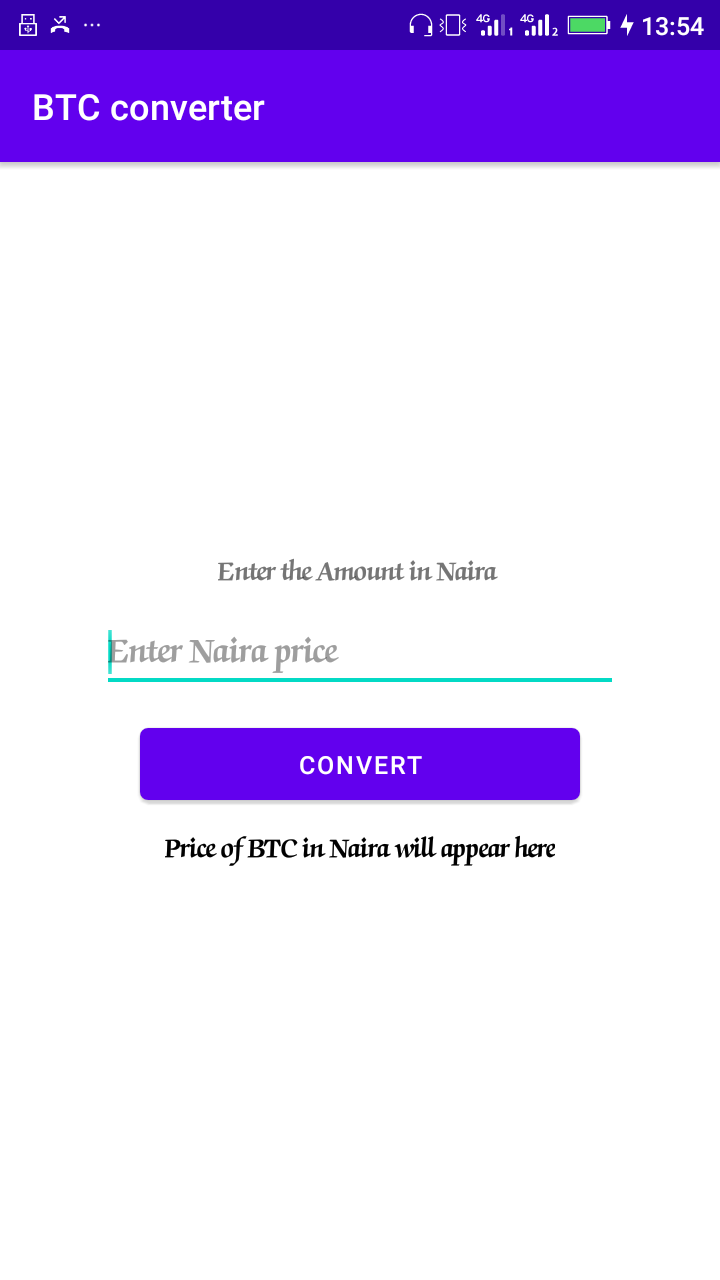
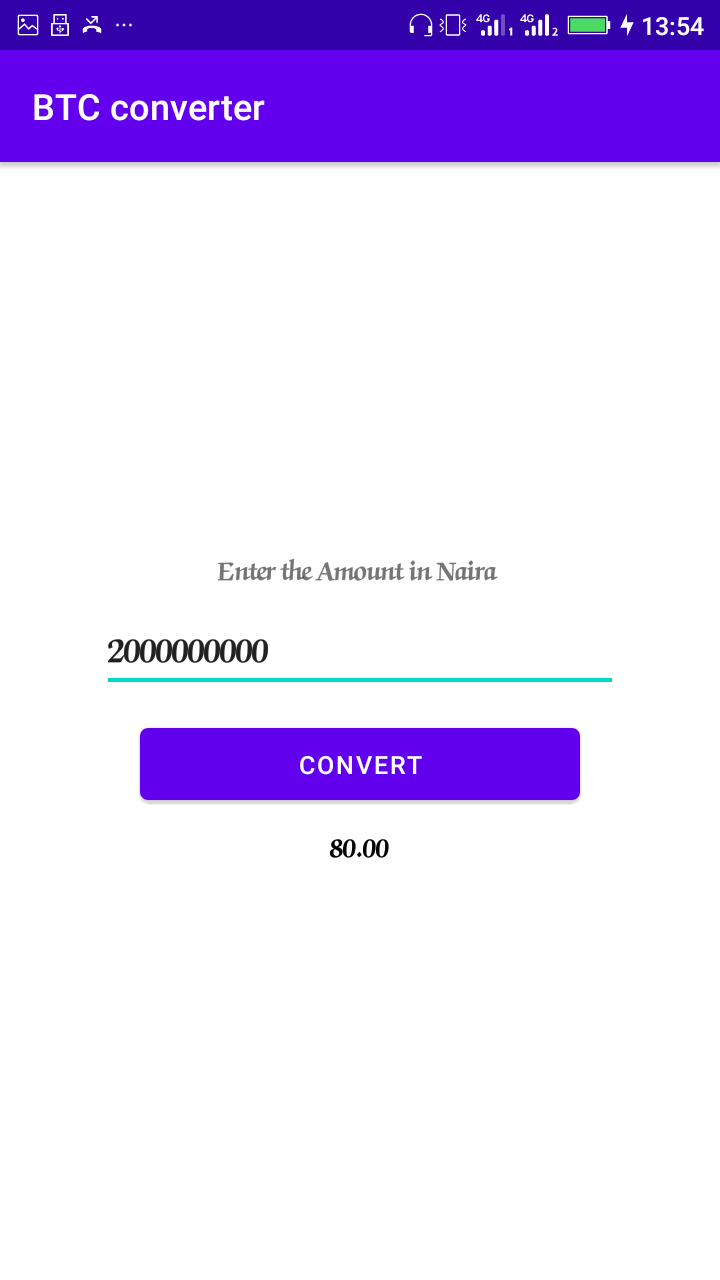
some changes

Changed region(s): [[0.2139, 0.6562, 0.7639, 0.6875], [0.1528, 0.5, 0.4583, 0.5312], [0.0306, 0.0, 0.1528, 0.0312]]

diff --git a/app/src/main/java/com/example/btcconverter/MainActivity.kt b/app/src/main/java/com/example/btcconverter/MainActivity.kt
@@ -33,9 +33,7 @@ class MainActivity : AppCompatActivity() {
         var result = convertAmount * btcValue
         var roundUp = binding.switchUp.isChecked
         if (roundUp){
-//            result.toString().toInt()
-            val result = String.format("%.1f", result)
-//            result = kotlin.math.ceil(result)
+           result = kotlin.math.round(result)
         }
         var formattedResult = NumberFormat.getCurrencyInstance().format(result)
         binding.conertedAmount.text = formattedResult
